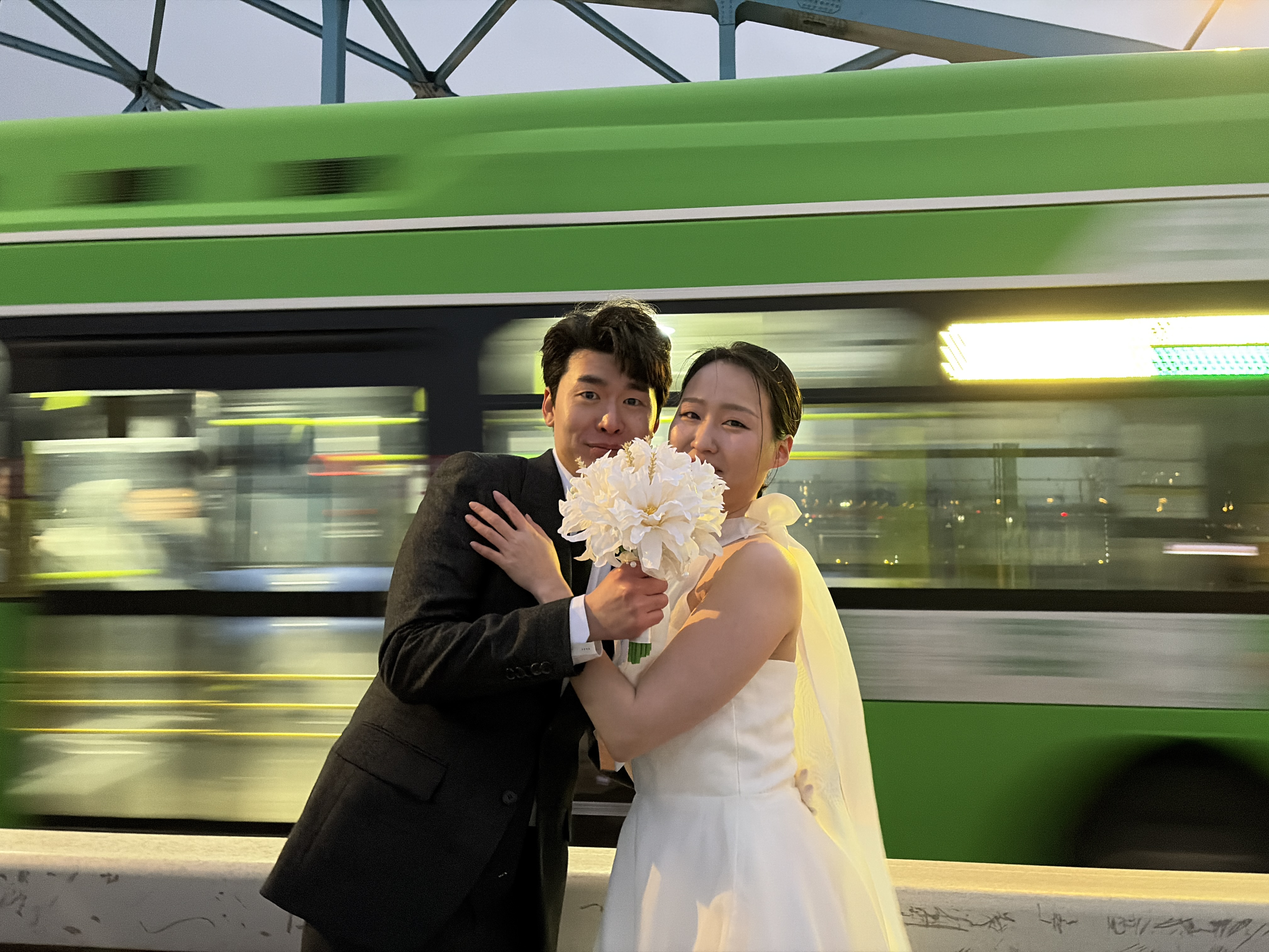
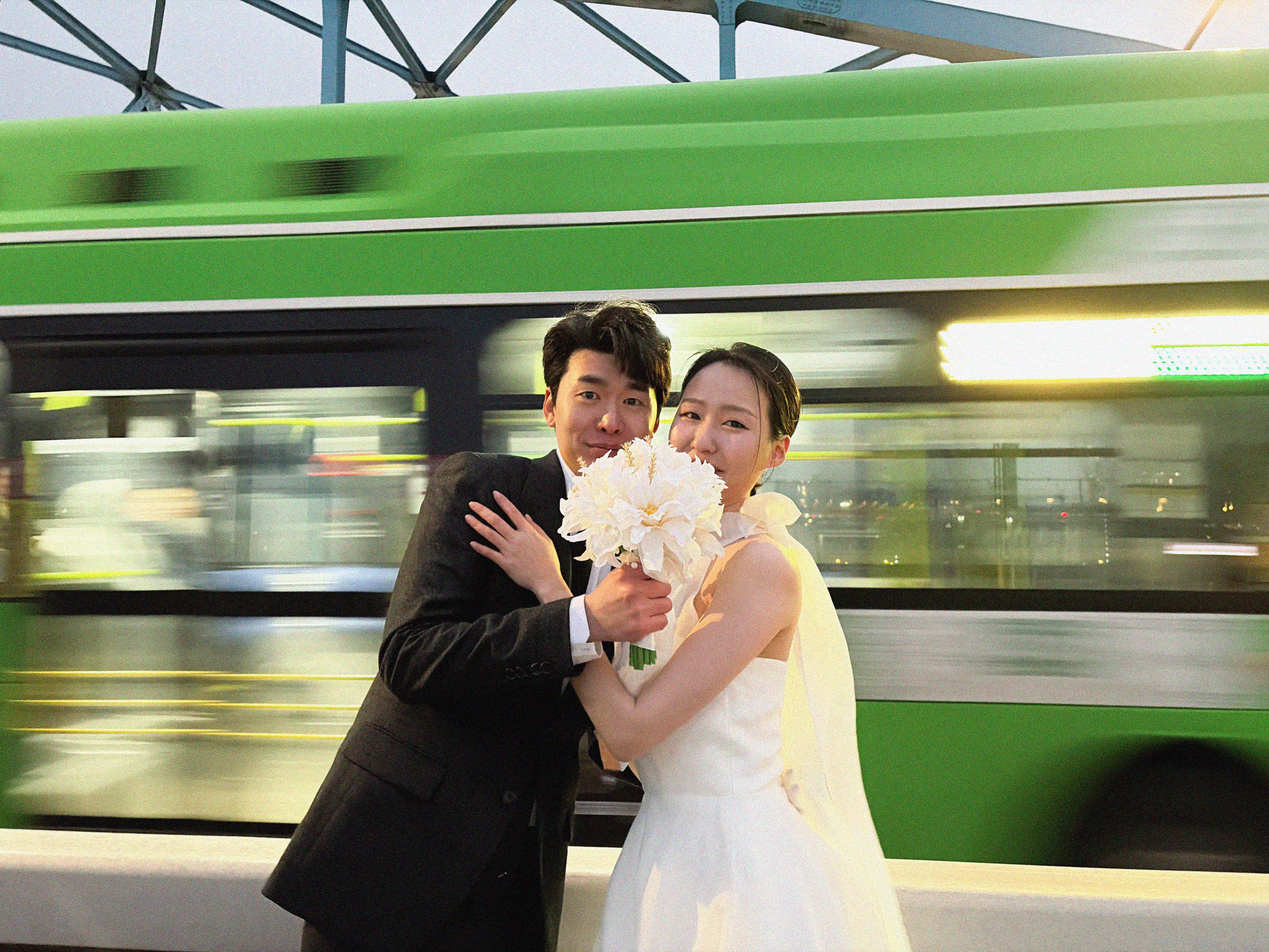
보정 사진 교체

diff --git a/script.js b/script.js
@@ -50,7 +50,7 @@
             }
             const img = new Image();
             const num = usePadding ? String(current).padStart(2, '0') : String(current);
-            const ext = folder === 'story' ? 'jpg' : 'JPG';
+            const ext = folder === 'story' ? 'jpg' : 'jpg';
             const path = `images/${folder}/${num}.${ext}`;
             img.onload = function() {
                 images.push(path);
@@ -356,7 +356,7 @@
      ═══════════════════════════════════════════ */
 
   function initHero() {
-    $('#heroPhoto').src = 'images/hero/14.JPG';
+    $('#heroPhoto').src = 'images/hero/14.jpg';
     $('#heroNames').textContent = `${CONFIG.groom.name}  ·  ${CONFIG.bride.name}`;
     $('#heroDate').textContent = formatDate(CONFIG.wedding.date, CONFIG.wedding.time);
     $('#heroVenue').textContent = CONFIG.wedding.venue;

diff --git a/index.html b/index.html
@@ -31,7 +31,7 @@
     <div class="curtain__wash curtain__wash--bottom"></div>
     <div class="curtain__content">
       <p class="curtain__subtitle">Wedding Invitation</p>
-      <img src="images/gallery/01.JPG" alt="Wedding Photo" class="curtain__photo">
+      <img src="images/gallery/01.jpg" alt="Wedding Photo" class="curtain__photo">
       <p class="curtain__names" id="curtainNames"></p>
       <div class="curtain__buttons">
         <button class="curtain__btn" id="curtainBtn">초대장 열기</button>
